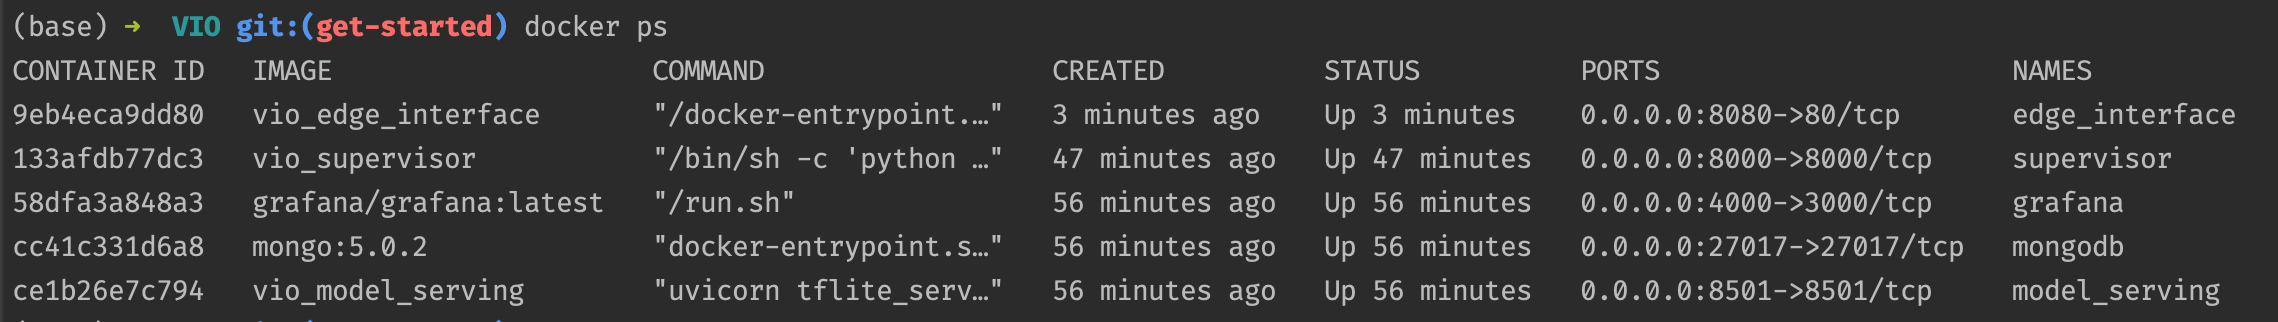
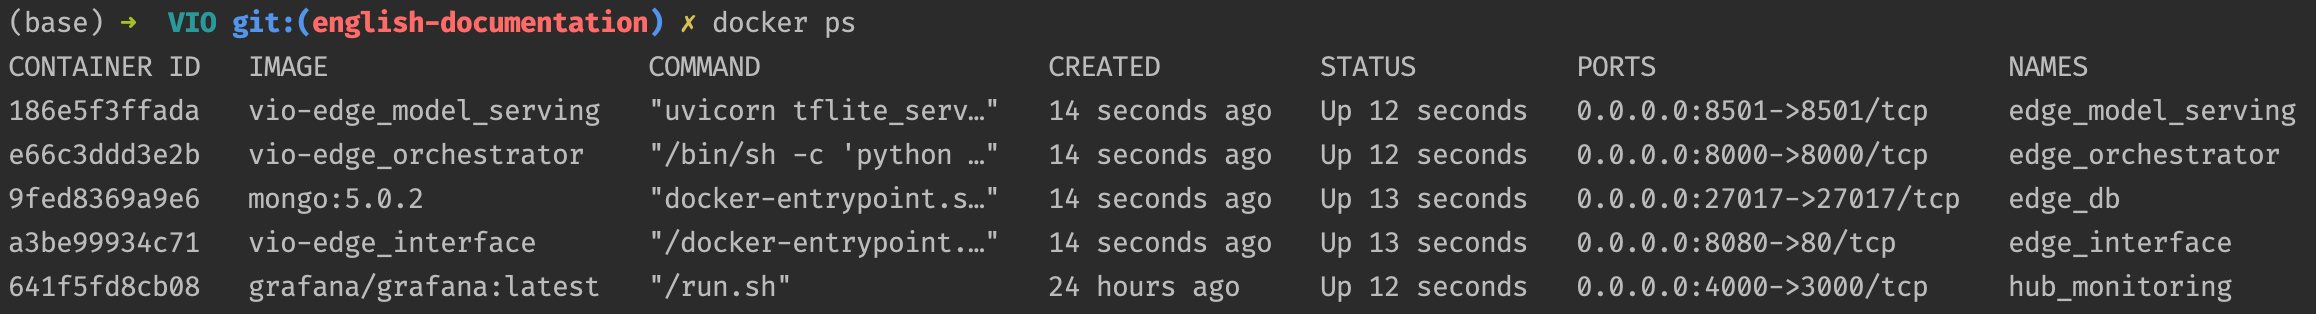
rename command vio-edge-up

diff --git a/docs/index.md b/docs/index.md
@@ -8,13 +8,13 @@ Usecase example: Quality check of a product manufactured on an assembly line.
 ## Features
 
 ### Edge modules
-- [The edge orchestrator](supervisor.md)
+- [The edge orchestrator](edge_orchestrator.md)
 - [The edge interface](edge_interface.md)
-- [The edge model serving](model_serving.md)
+- [The edge model serving](edge_model_serving.md)
 - [The edge deployment playbook](edge_deployment.md)
 
 ### Hub modules
-- [The hub monitoring](monitoring.md)
+- [The hub monitoring](hub_monitoring.md)
 - [The hub deployment playbook](hub_deployment.md)
 
 ## Install the framework
@@ -29,11 +29,11 @@ Note: The VIO docker images will be soon available in a public registry, stay tu
 
 To launch the stack you can use the [Makefile](https://github.com/octo-technology/VIO/blob/main/Makefile) on the root of the repository which define the different target based on the [docker-compose.yml](https://github.com/octo-technology/VIO/blob/main/docker-compose.yml):
 
-- run all services (supervisor, model-serving, Mongo DB, UI) : `make services-up`
-- run the core (supervisor) containerized : `make edge_orchestrator`
-- run the model serving containerized: `make edge_model_serving`
-- run the edge interface containerized : `make edge_interface`
-- stop and delete all running services : `make services-down`
+- run all edge services (orchestrator, model-serving, interface, db) with local hub monitoring (grafana): `make vio-edge-up`
+- run the edge_orchestrator containerized: `make edge_orchestrator`
+- run the edge model serving containerized: `make edge_model_serving`
+- run the edge interface containerized: `make edge_interface`
+- stop and delete all running services: `make vio-edge-down`
 
 Each of the above target correspond to a command [docker-compose.yml](https://github.com/octo-technology/VIO/blob/main/docker-compose.yml). For example, the target `supervisor` correspond to :
 
@@ -52,12 +52,12 @@ Once all services are up and running you can access:
 - the hub monitoring: [http://localhost:4000/login](http://localhost:4000/login)
 - the edge interface: [http://localhost:8080](http://localhost:8080)
 
-From the edge interface you can load a configuration and run the trigger button that will trigger the Core API and launch the following actions:
+From the edge interface you can load a configuration and run the trigger button that will trigger the Orchestrator API and launch the following actions:
 
  ![vio-architecture-stack](images/supervisor-actions.png)
 
 ## Implementation example
 
-Here you can find an implementation of VIO deployed on Azure managing a fleet of Raspberrys:
+Here you can find an implementation of VIO deployed on Azure (vio-hub) managing a fleet of Raspberrys (vio-edge):
  
  ![vio-architecture-stack](images/vio_azure_stack.png)

diff --git a/README.md b/README.md
@@ -13,13 +13,13 @@ VIO full documentation can be found [here](https://octo-technology.github.io/VIO
 ## Features
 
 ### Edge modules
-- [The edge orchestrator](docs/supervisor.md)
+- [The edge orchestrator](docs/edge_orchestrator.md)
 - [The edge interface](docs/edge_interface.md)
-- [The edge model serving](docs/model_serving.md)
+- [The edge model serving](docs/edge_model_serving.md)
 - [The edge deployment playbook](docs/edge_deployment.md)
 
 ### Hub modules
-- [The hub monitoring](docs/monitoring.md)
+- [The hub monitoring](docs/hub_monitoring.md)
 - [The hub deployment playbook](docs/hub_deployment.md)
 
 ## Install the framework
@@ -34,9 +34,9 @@ Prerequisites:
 
 To launch the stack you can use the [Makefile](../Makefile) on the root of the repository which define the different target based on the [docker-compose.yml](../docker-compose.yml):
 
-- run all services (supervisor, model-serving, Mongo DB, UI) : `make services-up`
+- run all edge services (orchestrator, model-serving, interface, db) with local hub monitoring (grafana): `make vio-edge-up`
 
-- stop and delete all running services : `make services-down`
+- stop and delete all running services : `make vio-edge-down`
 
 To check all services are up and running you can run the command `docker ps`, you should see something like below:
 

diff --git a/docs/overview.md b/docs/overview.md
@@ -22,13 +22,13 @@ Each sub folders below are indeed a module, an application, an independant micro
 Les sous-dossiers du dossier courant, à savoir :
 
 ### Edge modules
-- [The edge orchestrator](supervisor.md)
+- [The edge orchestrator](edge_orchestrator.md)
 - [The edge interface](edge_interface.md)
-- [The edge model serving](model_serving.md)
+- [The edge model serving](edge_model_serving.md)
 - [The edge deployment playbook](edge_deployment.md)
 
 ### Hub modules
-- [The hub monitoring](monitoring.md)
+- [The hub monitoring](hub_monitoring.md)
 - [The hub deployment playbook](hub_deployment.md)
 
 All of those modules have been packages inside a dedicated docker images to facilitate their deployment.

diff --git a/docs/hub_monitoring.md b/docs/hub_monitoring.md
@@ -1,4 +1,4 @@
-# The hub monitoring 
+# Hub Monitoring 
 
 The monitoring is here to help us monitor our IoTHub Devices and Modules via a Grafana dashboard.
 

diff --git a/docs/edge_interface.md b/docs/edge_interface.md
@@ -1,4 +1,4 @@
-# The Edge interface
+# Edge Interface
 
 1. Select a configuration
  ![edge_interface_config_screen](images/edge_interface_config_screen.png)

diff --git a/docs/edge_orchestrator.md b/docs/edge_orchestrator.md
@@ -1,4 +1,4 @@
-# The edge orchestrator
+# Edge Orchestrator
 
 Le supervisor orchestre les étapes suivantes dès qu'il est déclenché :
 

diff --git a/docs/edge_model_serving.md b/docs/edge_model_serving.md
@@ -1,4 +1,4 @@
-# The edge model serving
+# Edge Model Serving
 
 more documentation coming soon..
 
